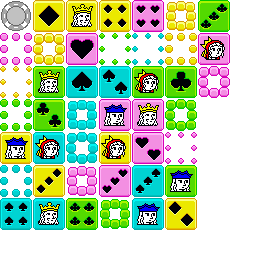
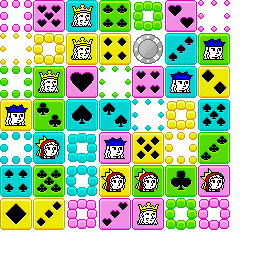
Comptage des chaînes et du début du comptage du nombre de tokens.

diff --git a/puzzlesuit/Board.swift b/puzzlesuit/Board.swift
@@ -103,7 +103,9 @@ class Board : Square {
         }
     }
     
-    func resolve() {
+    func resolve() -> [Hand] {
+        var result = [Hand]()
+        
         for location in dirty {
             if let card = cardAtLocation(location) {
                 let identifier = Identifier(board: self)
@@ -111,11 +113,8 @@ class Board : Square {
                 // Vérification des suites.
                 let straight = identifier.straightIncludingCard(card, location: location, ignore: marked)
                 if straight.count >= 5 {
-                    if identifier.isFlush(straight) {
-                        NSLog("\(straight.count) straight flush")
-                    } else {
-                        NSLog("\(straight.count) straight")
-                    }
+                    result.append(.Straight(count: straight.count, flush: identifier.isFlush(straight)))
+                    NSLog(result.last!.description())
                     marked.appendContentsOf(straight)
                 }
                 
@@ -123,11 +122,8 @@ class Board : Square {
                 let sameKinds = identifier.sameKindsAsCard(card, location: location, ignore: marked)
                 
                 if sameKinds.count >= 3 {
-                    if identifier.isFlush(sameKinds) {
-                        NSLog("\(sameKinds.count) of a kind flush")
-                    } else {
-                        NSLog("\(sameKinds.count) of a kind")
-                    }
+                    result.append(.SameKind(rank: cardAtLocation(sameKinds[0])!.rank, count: sameKinds.count, flush: identifier.isFlush(sameKinds)))
+                    NSLog(result.last!.description())
                     marked.appendContentsOf(sameKinds)
                 }
                 
@@ -147,13 +143,16 @@ class Board : Square {
                 // Vérification des couleurs.
                 let sameSuit = identifier.sameSuitAsCard(card, location: location, ignore: marked)
                 if sameSuit.count >= 5 {
-                    NSLog("\(sameSuit.count) length flush")
+                    result.append(.Flush(suit: cardAtLocation(sameSuit[0])!.suit, count: sameSuit.count))
+                    NSLog(result.last!.description())
                     marked.appendContentsOf(sameSuit)
                 }
             }
         }
         removalWarningForCardsAtLocations(marked)
         dirty.removeAll()
+        
+        return result
     }
     
     func commit() {

diff --git a/puzzlesuit/Hand.swift b/puzzlesuit/Hand.swift
@@ -1,0 +1,55 @@
+//
+//  Hand.swift
+//  puzzlesuit
+//
+//  Created by Raphaël Calabro on 01/02/2016.
+//  Copyright © 2016 Raphaël Calabro. All rights reserved.
+//
+
+import Foundation
+
+enum Hand {
+    
+    case Flush(suit: Suit, count: Int)
+    case SameKind(rank: Rank, count: Int, flush: Bool)
+    case Straight(count: Int, flush: Bool)
+    
+    // TODO: TWO_PAIRS ?
+    
+    func tokens() -> Int {
+        switch self {
+        case let .Flush(_, count):
+            return max(2 * count - 5, 0)
+        case let .SameKind(rank, count, flush):
+            let multiplier = flush ? 2 : 1
+            let base : Int
+            if rank == .As {
+                base = Board.columns
+            } else if rank.rawValue >= Rank.Jack.rawValue && rank.rawValue <= Rank.King.rawValue {
+                base = Board.columns / 2
+            } else {
+                base = 2
+            }
+            return base * (count - 3) * multiplier
+        case let .Straight(count, flush):
+            let multiplier : Float = flush ? 3 : 1
+            let base : Float = 1 + 0.5 * Float(count - 5)
+            
+            return Int(Float(Board.columns) * base * multiplier)
+        }
+    }
+    
+    func description() -> String {
+        switch self {
+        case let .Flush(suit, count):
+            return "\(suit) suit \(count) flush"
+        case let .SameKind(_, count, flush):
+            let isFlush = flush ? " flush" : ""
+            return "\(count) of a kind\(isFlush)"
+        case let .Straight(count, flush):
+            let isFlush = flush ? " flush" : ""
+            return "\(count) straight\(isFlush)"
+        }
+    }
+    
+}

diff --git a/puzzlesuit/GameFlow.swift b/puzzlesuit/GameFlow.swift
@@ -38,6 +38,8 @@ class GameFlow {
     
     var controller : Controller = NoController()
     
+    var chainCount = 0
+    
     init() {
         self.board = Board()
         self.generator = Generator()
@@ -86,6 +88,7 @@ class GameFlow {
     
     private func updateNewHand() {
         self.hand = board.spritesForMainCard(nextHand[0], andExtraCard: nextHand[1])
+        self.chainCount = 0
 
         let main = self.hand[0]
         let extra = self.hand[1]
@@ -125,7 +128,7 @@ class GameFlow {
         board.resolve()
         
         if board.marked.count > 0 {
-            pause = 0.3
+            self.pause = 0.3
             self.nextState = .Commit
             self.state = .Pause
         } else {
@@ -151,15 +154,23 @@ class GameFlow {
         }
         
         if board.detached == 0 {
+            if chainCount > 1 {
+                NSLog("\(chainCount)x combo")
+            }
             self.state = .NewHand
         } else {
             self.state = .Chain
+            self.chainCount++
         }
     }
     
     private func updatePreviewSprite(sprite: Sprite, withCard card: Card) {
         sprite.animation = SingleFrameAnimation(definition: sprite.factory.definitions[card.suit.rawValue].animations[0])
         sprite.animation.frameIndex = card.rank.rawValue
+    }
+    
+    private func sendTokens() {
+        
     }
     
 }

diff --git a/puzzlesuit/Rank.swift b/puzzlesuit/Rank.swift
@@ -10,9 +10,9 @@ import Foundation
 
 enum Rank : Int {
     
-    case As, Two, Three, Four, Jack, Queen, King
+    case As, Two, Three, Four, Five, Jack, Queen, King
     
-    static let all = [Rank.As, .Two, .Three, .Four, .Jack, .Queen, .King]
+    static let all = [Rank.As, .Two, .Three, .Four, .Five, .Jack, .Queen, .King]
     
 }
 
